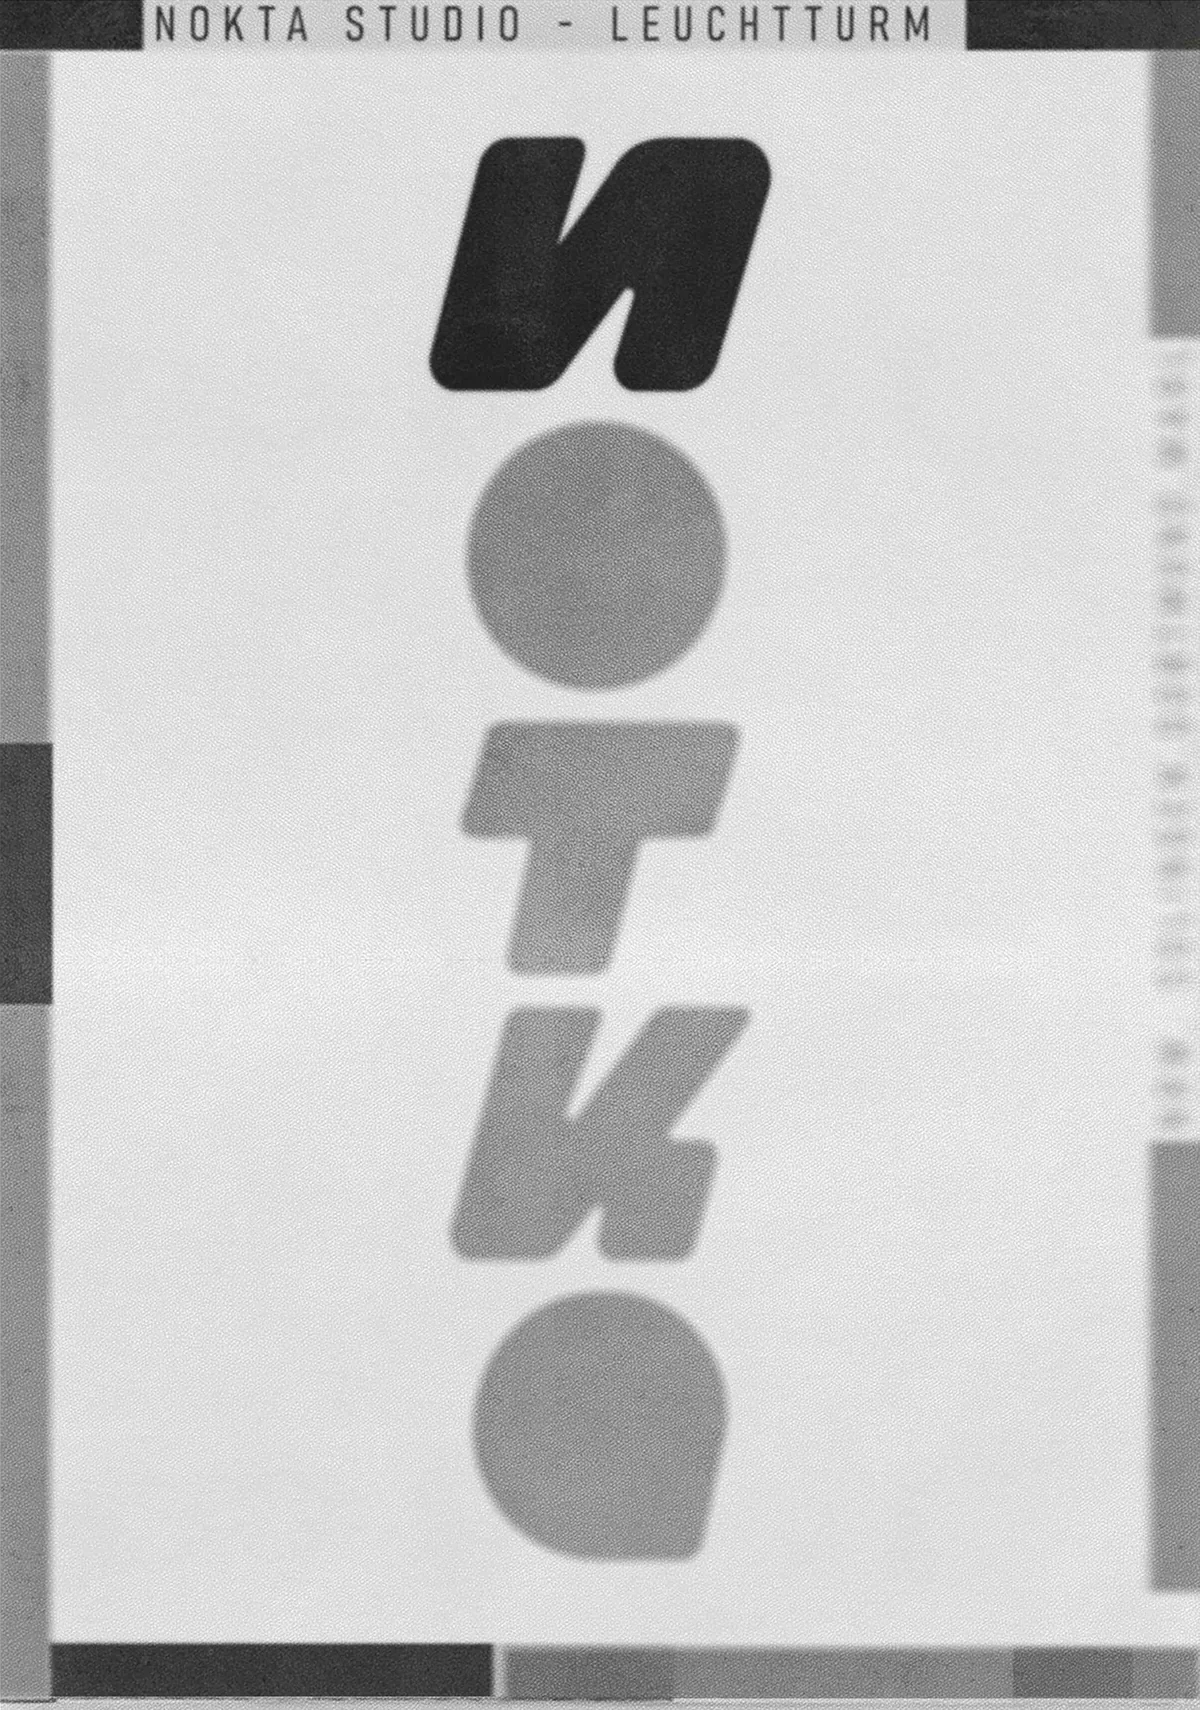
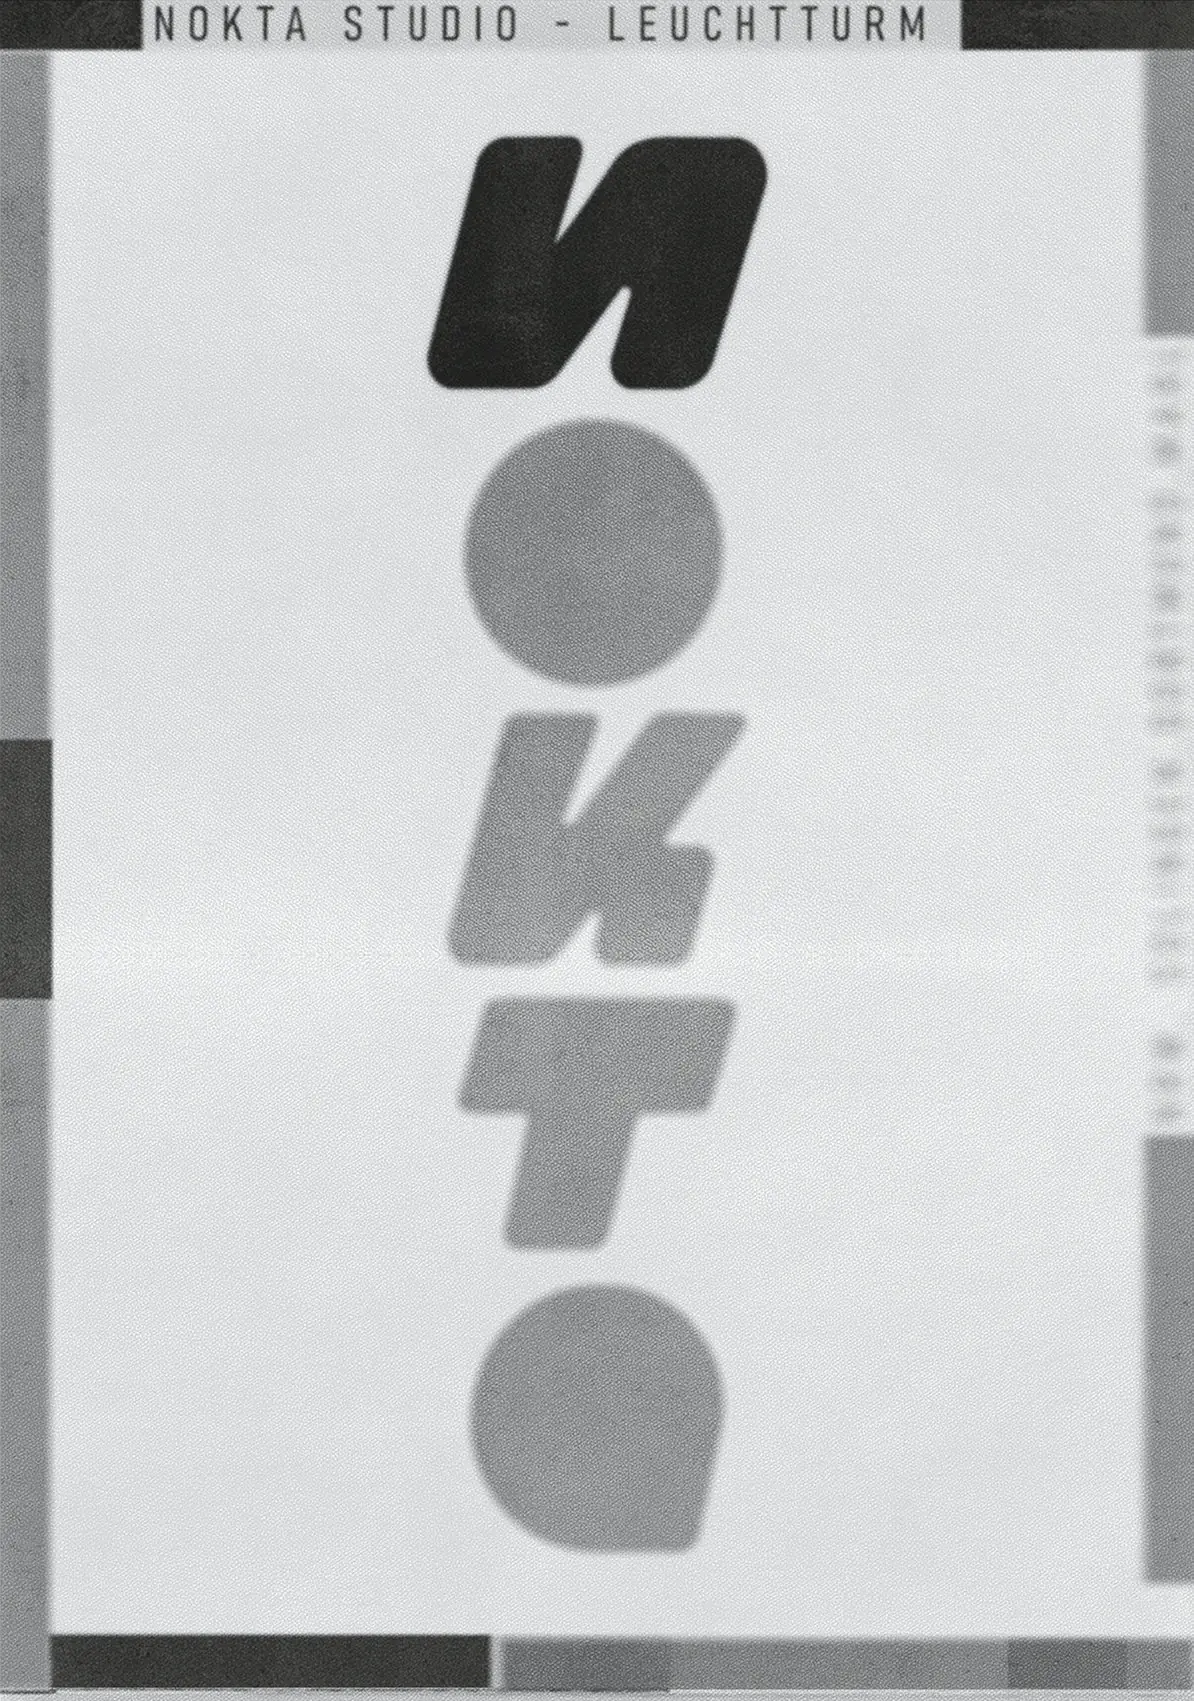
Leuchtturm: the cover with its glyphs in the right order
The scanned cover of the house manual had two of its five glyphs transposed:
reading down, it was n · o · t · k · a, so the manual the studio works from
announced itself as NOTKA. The new scan reads n · o · k · t · a.

It is one file for three places — the plate in the home page's set, the card on
the wall, and the specimen on the work's own page all resolve
/point/leuchtturm-cover.webp through lib/works.ts and
components/nokta/Leuchtturm.tsx — so replacing it in place corrects all three at
once. Its intrinsic size moves with it: 1200 × 1710 → 1194 × 1701, which is the
figure the plate takes its aspect-ratio from, and a stale one would have
letterboxed the work by a pixel.

Re-encoded rather than dropped in as delivered: WebP q75, metadata stripped,
518 KB → 352 KB, at the scan's own 1194px, which is wider than the largest any
page renders it (about 1000 device pixels, on a tablet at 2×). The photocopy
grain is the point of this image and it is expensive to compress, so quality was
chosen against it — at q60 the grain visibly smooths, at q75 it is the scan's.

The alt text needs nothing: it describes the bar at the head, the five glyphs
stacked in greys, the corner patches and the fold, and says nothing about which
order the glyphs stand in.

Claude-Session: https://claude.ai/code/session_015xig3nJGaPNVurejTipDWM

Changed region(s): [[0.3719, 0.4051, 0.6198, 0.7478], [0.4648, 0.592, 0.6198, 0.7478]]

diff --git a/lib/mediaSizes.ts b/lib/mediaSizes.ts
@@ -56,7 +56,7 @@ const SIZES: Record<string, MediaSize> = {
   "/point/abschlussbericht/opinion.webp": { width: 1477, height: 2085 },
   "/point/abschlussbericht/termine.webp": { width: 1477, height: 2085 },
   "/point/n-study.png": { width: 536, height: 918 },
-  "/point/leuchtturm-cover.webp": { width: 1200, height: 1710 },
+  "/point/leuchtturm-cover.webp": { width: 1194, height: 1701 },
   "/line/chrysler.webp": { width: 1600, height: 2400 },
   "/line/eiffel.webp": { width: 1600, height: 2355 },
   "/line/empire-state.webp": { width: 1600, height: 2433 },
